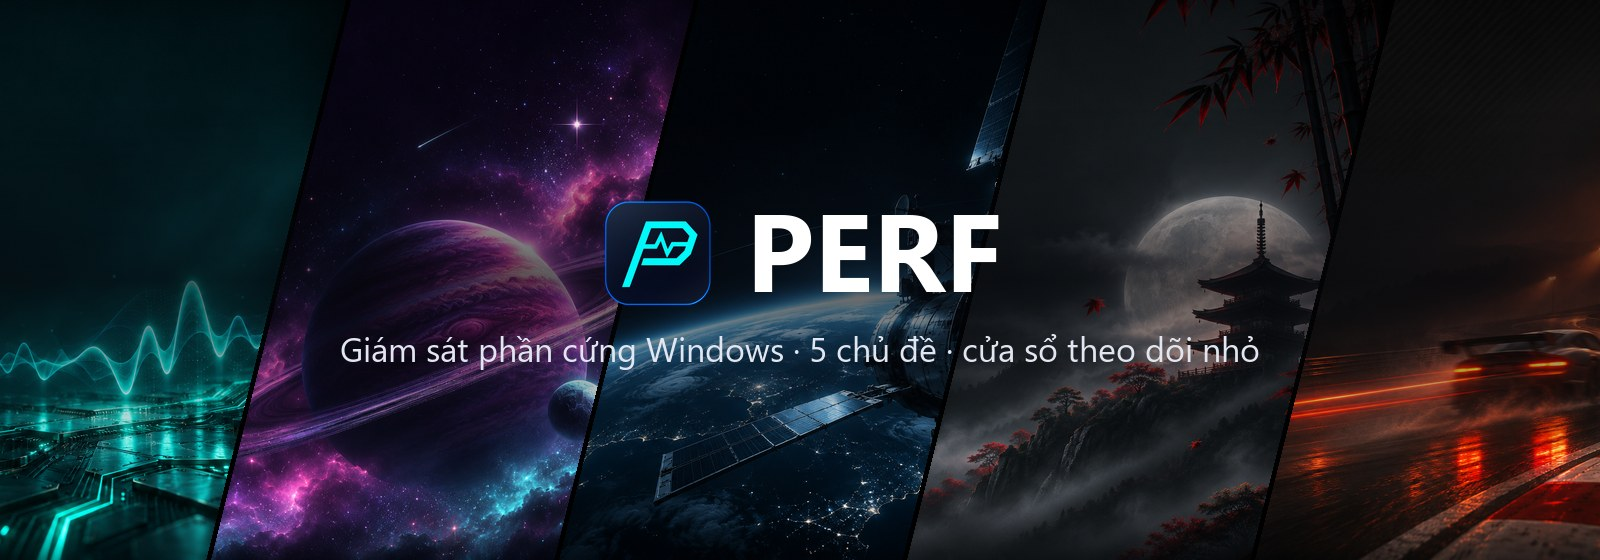
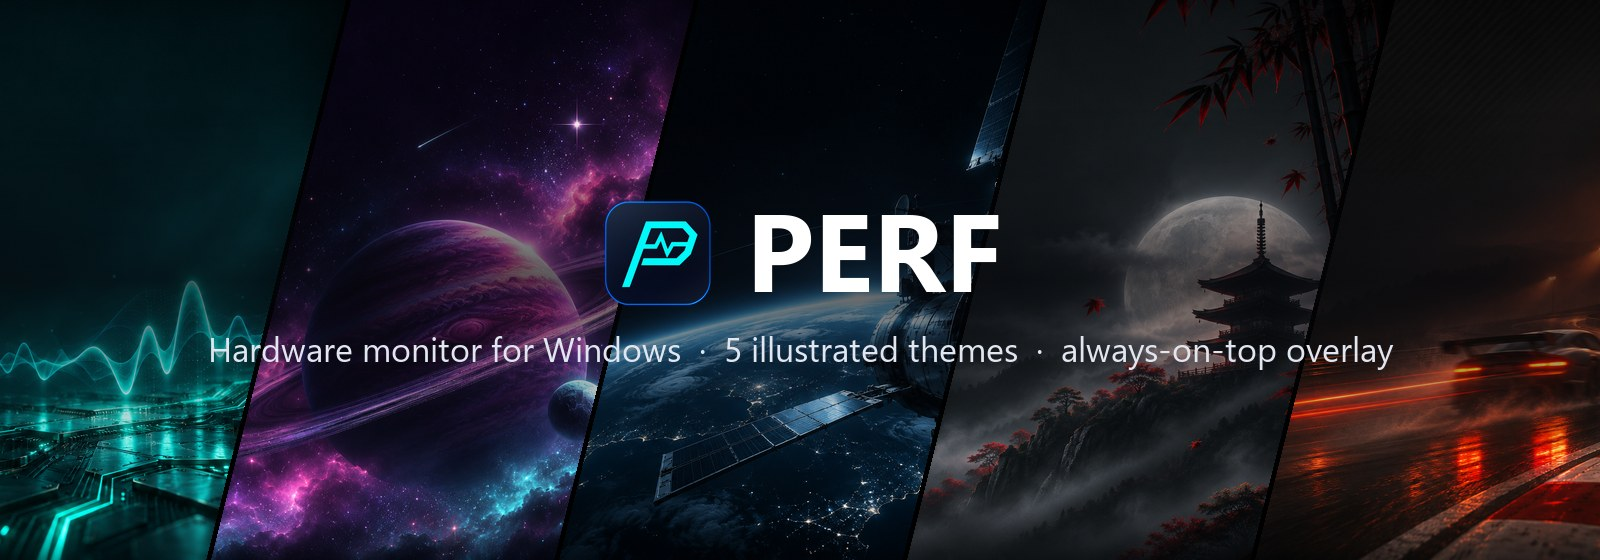
English README

Changed region(s): [[0.125, 0.6071, 0.875, 0.6679]]

diff --git a/README.md b/README.md
@@ -1,148 +1,151 @@
 # PERF 0.3.2
 
 <p align="center">
-  <img src="docs/images/hero.jpg" alt="PERF với năm chủ đề PERF Classic, Vũ trụ, Phi hành gia, Nhẫn giả và Xe đua" width="100%">
+  <img src="docs/images/hero.jpg" alt="PERF with its five themes: PERF Classic, Galaxy, Astronaut, Ninja and Racing" width="100%">
 </p>
 
 <p align="center">
-  <b>Theo dõi CPU, GPU, RAM, ổ đĩa, quạt, pin và mạng trên Windows trong một cửa sổ đẹp, nhẹ và dễ đọc.</b><br>
-  Năm chủ đề minh họa, cửa sổ theo dõi nhỏ luôn nổi, đo nhiệt độ 30 giây và giảm nhiệt CPU tạm thời có tự hoàn tác.
+  <b>A clean, lightweight hardware monitor for Windows.</b><br>
+  CPU, GPU, RAM, storage, fans, battery and network in one window, with five illustrated themes,<br>
+  an always-on-top mini overlay, a 30-second temperature check and a self-reverting CPU cool-down.
 </p>
 
 <p align="center">
-  <a href="https://github.com/tuanphat67/PERF/releases/latest"><img src="https://img.shields.io/github/v/release/tuanphat67/PERF?label=T%E1%BA%A3i%20b%E1%BA%A3n%20m%E1%BB%9Bi%20nh%E1%BA%A5t&style=for-the-badge&color=22c3e6" alt="Tải bản mới nhất"></a>
-  <img src="https://img.shields.io/badge/Windows-10%20%7C%2011%20x64-0b0f14?style=for-the-badge&logo=windows" alt="Windows 10 và 11 x64">
-  <img src="https://img.shields.io/badge/Mi%E1%BB%85n%20ph%C3%AD-gi%E1%BB%AF%20to%C3%A0n%20quy%E1%BB%81n-8a5cf6?style=for-the-badge" alt="Miễn phí, giữ toàn quyền">
+  <a href="https://github.com/tuanphat67/PERF/releases/latest"><img src="https://img.shields.io/github/v/release/tuanphat67/PERF?label=Download&style=for-the-badge&color=22c3e6" alt="Download the latest release"></a>
+  <img src="https://img.shields.io/badge/Windows-10%20%7C%2011%20x64-0b0f14?style=for-the-badge&logo=windows" alt="Windows 10 and 11, x64">
+  <img src="https://img.shields.io/badge/Price-Free-8a5cf6?style=for-the-badge" alt="Free">
 </p>
 
 <p align="center">
-  <a href="https://github.com/tuanphat67/PERF/releases/latest"><b>⬇ Tải PERF cho Windows</b></a>
-  &nbsp;·&nbsp; <a href="#cài-đặt-trong-1-phút">Cài đặt</a>
-  &nbsp;·&nbsp; <a href="#năm-chủ-đề">Chủ đề</a>
-  &nbsp;·&nbsp; <a href="#câu-hỏi-thường-gặp">Hỏi đáp</a>
+  <a href="https://github.com/tuanphat67/PERF/releases/latest"><b>⬇ Download PERF for Windows</b></a>
+  &nbsp;·&nbsp; <a href="#install-in-one-minute">Install</a>
+  &nbsp;·&nbsp; <a href="#five-themes">Themes</a>
+  &nbsp;·&nbsp; <a href="#faq">FAQ</a>
 </p>
+
+> **Interface language:** the app UI is currently in Vietnamese. Menu names below are given in English with the on-screen Vietnamese label in brackets.
 
 ---
 
-## Vì sao chọn PERF
+## Highlights
 
 | | |
 |---|---|
-| 📊 **Mọi chỉ số trên một màn hình** | CPU, GPU, RAM, ổ đĩa, quạt và bơm, pin, mạng, kèm biểu đồ 60 giây và giá trị chi tiết khi rê chuột. |
-| 🪟 **Cửa sổ nhỏ luôn nổi** | Đặt ở góc màn hình, chuột bấm xuyên qua nên không vướng khi chơi game hay làm việc. |
-| 🎨 **Năm chủ đề minh họa** | PERF Classic, Vũ trụ, Phi hành gia, Nhẫn giả và Xe đua, mỗi chủ đề có ảnh nền, biểu tượng và bảng màu riêng. |
-| 🌡 **Đo và giảm nhiệt** | Đo nhiệt độ trong 30 giây khi bạn chạy tác vụ thật. Giới hạn CPU 60, 75 hoặc 90% trong 10 phút, tự trả về như cũ. |
-| 🔒 **Trung thực và an toàn** | Không đoán số: cảm biến nào không có thì hiện *Chưa đọc được*. PERF không gửi dữ liệu đi đâu và không điều khiển quạt. |
-| 🪶 **Nhẹ** | Dưới 1% CPU khi chạy nền trên laptop thử nghiệm. Thu xuống khay hệ thống khi không cần. |
+| 📊 **Everything at a glance** | CPU, GPU, RAM, storage, fans and pumps, battery and network on one dashboard, with a 60-second chart and per-moment values on hover. |
+| 🪟 **Always-on-top mini overlay** | Sits in a screen corner and is click-through, so it never gets in the way of games or work. |
+| 🎨 **Five illustrated themes** | PERF Classic, Galaxy, Astronaut, Ninja and Racing, each with its own artwork, icon and colour palette. |
+| 🌡 **Measure and cool down** | Record temperatures for 30 seconds under your real workload. Cap the CPU at 60, 75 or 90% for 10 minutes, then it restores itself. |
+| 🔒 **Honest and safe** | No made-up numbers: sensors that report nothing show *Not available*. PERF sends no data anywhere and never drives your fans. |
+| 🪶 **Lightweight** | Under 1% CPU while running in the background on our test laptop. Minimises to the system tray. |
 
-## Năm chủ đề
+## Five themes
 
-Đổi trong **Cài đặt → Giao diện**, xem trước ngay rồi bấm **Lưu cài đặt**.
+Switch under **Settings → Appearance** (*Cài đặt → Giao diện*), preview instantly, then click **Save settings** (*Lưu cài đặt*).
 
 <p align="center">
-  <img src="docs/images/theme-picker.png" alt="Bộ chọn chủ đề trong Cài đặt" width="820">
+  <img src="docs/images/theme-picker.png" alt="Theme picker in Settings" width="820">
 </p>
 
 <table>
   <tr>
-    <td width="50%"><img src="docs/images/theme-galaxy.jpg" alt="Chủ đề Vũ trụ"><br><b>🪐 Vũ trụ</b>: hành tinh có vành, tinh vân tím hồng và trường sao.</td>
-    <td width="50%"><img src="docs/images/theme-astronaut.jpg" alt="Chủ đề Phi hành gia"><br><b>👨🚀 Phi hành gia</b>: chân trời Trái Đất ban đêm nhìn từ trạm vũ trụ.</td>
+    <td width="50%"><img src="docs/images/theme-galaxy.jpg" alt="Galaxy theme"><br><b>🪐 Galaxy</b> (<i>Vũ trụ</i>): a ringed gas giant, violet nebula and a deep star field.</td>
+    <td width="50%"><img src="docs/images/theme-astronaut.jpg" alt="Astronaut theme"><br><b>👨🚀 Astronaut</b> (<i>Phi hành gia</i>): Earth's night-side horizon seen from a space station.</td>
   </tr>
   <tr>
-    <td><img src="docs/images/theme-ninja.jpg" alt="Chủ đề Nhẫn giả"><br><b>🥷 Nhẫn giả</b>: trăng tròn, chùa cổ trong sương và rặng tre.</td>
-    <td><img src="docs/images/theme-racing.jpg" alt="Chủ đề Xe đua"><br><b>🏎 Xe đua</b>: đường đua đêm mưa với vệt đèn đỏ cam.</td>
+    <td><img src="docs/images/theme-ninja.jpg" alt="Ninja theme"><br><b>🥷 Ninja</b> (<i>Nhẫn giả</i>): a full moon over a misty pagoda and bamboo.</td>
+    <td><img src="docs/images/theme-racing.jpg" alt="Racing theme"><br><b>🏎 Racing</b> (<i>Xe đua</i>): a rain-soaked night circuit streaked with tail lights.</td>
   </tr>
   <tr>
-    <td><img src="docs/images/theme-classic.jpg" alt="Chủ đề PERF Classic"><br><b>📈 PERF Classic</b>: mạch điện và sóng dao động ký cyan.</td>
-    <td align="center"><img src="docs/images/theme-icons.png" alt="Biểu tượng của năm chủ đề" width="90%"><br>Mỗi chủ đề có biểu tượng 3D riêng.</td>
+    <td><img src="docs/images/theme-classic.jpg" alt="PERF Classic theme"><br><b>📈 PERF Classic</b>: glowing circuit traces and a cyan oscilloscope wave.</td>
+    <td align="center"><img src="docs/images/theme-icons.png" alt="The five theme icons" width="90%"><br>Every theme ships with its own 3D icon.</td>
   </tr>
 </table>
 
-> Ảnh chủ đề ở trên dùng dữ liệu mô phỏng để thấy đủ mọi ô. Trên máy thật, số liệu phụ thuộc cảm biến của thiết bị.
+> The theme screenshots use simulated data so every tile is filled. On a real machine, readings depend on the sensors your hardware exposes.
 
-## Cửa sổ theo dõi nhỏ
+## Mini overlay
 
-Luôn nổi ở góc màn hình, mặc định hiện CPU, GPU, RAM và nhiệt độ nếu đọc được. Chọn kiểu **theo dòng**, **dải ngang** hoặc **thanh tải**, đổi vị trí, kích thước, độ đậm nền và từ một đến ba chỉ số trong **Cài đặt → Cửa sổ theo dõi nhỏ**. Nút **Dùng mẫu cửa sổ nhỏ của chủ đề** điền sẵn một cấu hình hợp với chủ đề đang chọn.
+A small always-on-top window in the corner of your screen. By default it shows CPU, GPU and RAM usage plus temperatures when available. Choose a **list**, **strip** or **load bar** layout and adjust position, size, background opacity and one to three metrics under **Settings → Mini overlay** (*Cửa sổ theo dõi nhỏ*). **Use theme overlay preset** (*Dùng mẫu cửa sổ nhỏ của chủ đề*) fills in a layout that matches the current theme.
 
 <p align="center">
-  <img src="docs/images/overlays.png" alt="Ba kiểu cửa sổ nhỏ theo năm chủ đề" width="100%">
+  <img src="docs/images/overlays.png" alt="The three overlay layouts in all five themes" width="100%">
 </p>
 
-## Đo và giảm nhiệt
+## Temperature check and CPU cool-down
 
-<img src="docs/images/cooling.png" alt="Bảng giảm nhiệt CPU tạm thời" width="360" align="right">
+<img src="docs/images/cooling.png" alt="Temporary CPU cool-down panel" width="360" align="right">
 
-- **Kiểm tra nhiệt độ:** bấm đo trong lúc chạy game hay tác vụ nặng. PERF ghi nhiệt độ ban đầu, hiện tại và cao nhất trong 30 giây. App không tự tạo tải thử.
-- **Giảm nhiệt CPU tạm thời:** chọn mức xử lý tối đa **60%, 75% hoặc 90%** trong 10 phút, áp dụng cả khi cắm sạc lẫn dùng pin.
-- **Luôn trả về như cũ:** PERF chỉnh một bản sao của cấu hình nguồn và tự hoàn tác khi hết giờ, khi thoát, kể cả sau khi app bị đóng bất thường hay mất điện. Có nút **Trả về cấu hình nguồn trước đó** để hoàn tác ngay.
-- **Quạt và bơm:** xem vòng tua (RPM) và mức PWM mà máy hỗ trợ ở thẻ **Quạt và bơm**. Quạt vẫn do firmware hoặc phần mềm của hãng điều khiển. Với laptop Lenovo, PERF đọc thêm vòng tua qua Lenovo WMI.
+- **Temperature check:** start a measurement while a game or heavy task is running. PERF records the starting, current and peak temperature over 30 seconds. It never generates load on its own.
+- **Temporary CPU cool-down:** cap the maximum processor state at **60%, 75% or 90%** for 10 minutes, on both AC and battery power.
+- **Always reverted:** PERF edits a copy of your power plan and restores the original when time runs out or when you quit, even after a crash or power loss. **Restore previous power plan** (*Trả về cấu hình nguồn trước đó*) undoes it immediately.
+- **Fans and pumps:** the **Fans and pumps** (*Quạt và bơm*) card shows every RPM and PWM channel your machine reports. Fans stay under firmware or vendor-software control. On Lenovo laptops, PERF also reads fan speed through Lenovo WMI.
 
 <br clear="right">
 
-## Cài đặt trong 1 phút
+## Install in one minute
 
-1. Tải `PERF-<phiên-bản>-x64.msi` ở trang [**Releases**](https://github.com/tuanphat67/PERF/releases/latest).
-2. Mở tệp MSI và làm theo hướng dẫn. Bộ cài đã có sẵn .NET, không cần cài thêm gì.
-3. Mở **PERF** từ Start. Cửa sổ chính và cửa sổ nhỏ hiện ra ngay.
+1. Download `PERF-<version>-x64.msi` from [**Releases**](https://github.com/tuanphat67/PERF/releases/latest).
+2. Run the installer. The .NET runtime is bundled, so nothing else is needed.
+3. Launch **PERF** from the Start menu. The main window and the mini overlay appear right away.
 
-**Cảm biến nâng cao (khuyên dùng):** bộ cài kèm driver **PawnIO** có chữ ký để đọc thêm nhiệt độ và công suất CPU. Chấp nhận hộp thoại UAC khi được hỏi. Nếu đã bỏ qua, vào **Cài đặt → Nguồn cảm biến** và bấm **Cài PawnIO đi kèm**, sau đó thoát hẳn PERF rồi mở lại.
+**Advanced sensors (recommended):** the installer includes the signed **PawnIO** driver, which unlocks extra CPU temperature and power readings. Accept the UAC prompt when asked. If you skipped it, open **Settings → Sensor sources** (*Cài đặt → Nguồn cảm biến*), click **Install bundled PawnIO** (*Cài PawnIO đi kèm*), then quit and reopen PERF.
 
-**Nâng cấp:** thoát PERF (chuột phải biểu tượng ở khay → **Thoát**) rồi chạy MSI mới. Cài đặt cá nhân được giữ nguyên.
+**Upgrade:** quit PERF (right-click the tray icon → **Exit** / *Thoát*) and run the new installer. Your settings are kept.
 
-**Gỡ cài đặt:** thoát PERF, rồi gỡ trong **Settings → Apps → Installed apps**.
+**Uninstall:** quit PERF, then remove it from **Settings → Apps → Installed apps** in Windows.
 
-### Yêu cầu
+### Requirements
 
-- Windows 10 hoặc 11, 64-bit (x64).
-- Laptop hoặc PC bàn. Số liệu từng cảm biến phụ thuộc phần cứng và driver của máy.
+- Windows 10 or 11, 64-bit (x64).
+- Laptop or desktop. Available readings depend on your hardware and drivers.
 
-## Mẹo sử dụng
+## Tips
 
-- Bấm **X** để thu PERF xuống khay hệ thống. Cửa sổ nhỏ vẫn cập nhật. Bấm đúp biểu tượng ở khay để mở lại.
-- Bấm vào thẻ **Quạt và bơm** để xem mọi kênh RPM và PWM, bấm **Đặt lại min/max** để đo lại từ đầu.
-- Trên biểu đồ 60 giây, chọn chỉ số bên dưới và rê chuột để xem giá trị từng thời điểm.
-- **Cài đặt → Khôi phục mặc định** đưa mọi tùy chọn về ban đầu và trả cấu hình nguồn về như trước.
+- Click **X** to send PERF to the system tray; the overlay keeps updating. Double-click the tray icon to bring it back.
+- Click the **Fans and pumps** card to see every RPM and PWM channel; **Reset min/max** (*Đặt lại min/max*) starts the session statistics over.
+- On the 60-second chart, pick a metric below it and hover to read any moment.
+- **Settings → Restore defaults** (*Khôi phục mặc định*) resets every option and returns your power plan to how it was.
 
-## Câu hỏi thường gặp
+## FAQ
 
 <details>
-<summary><b>Vì sao nhiệt độ GPU hiện "– °C"?</b></summary>
+<summary><b>Why does GPU temperature show "– °C"?</b></summary>
 
-Thường là máy chỉ có GPU tích hợp (ví dụ Intel UHD Graphics). GPU này nằm chung chip với CPU và không có cảm biến nhiệt riêng, nên PERF để trống thay vì đoán số. Trên máy có GPU rời NVIDIA hoặc AMD, nhiệt độ GPU hiện bình thường.
+Usually because the machine only has integrated graphics (for example Intel UHD Graphics). The iGPU shares the CPU die and has no temperature sensor of its own, so PERF leaves it blank instead of guessing. Discrete NVIDIA and AMD GPUs report their temperature normally.
 </details>
 
 <details>
-<summary><b>Vì sao một số ô hiện "Chưa đọc được"?</b></summary>
+<summary><b>Why do some tiles say "Not available" (<i>Chưa đọc được</i>)?</b></summary>
 
-Driver hoặc firmware của máy không cung cấp số đo đó. Cài **PawnIO** và cho phép chế độ nâng cao để đọc thêm nhiệt độ và công suất CPU. Một số số đo GPU, SSD và quạt vẫn tùy thiết bị.
+Your drivers or firmware don't expose that reading. Installing **PawnIO** and allowing advanced mode unlocks more CPU temperature and power sensors. Some GPU, SSD and fan readings still depend on the device.
 </details>
 
 <details>
-<summary><b>PERF có điều khiển quạt hay ép xung không?</b></summary>
+<summary><b>Does PERF control fans or overclock?</b></summary>
 
-Không. PERF chỉ đọc cảm biến. Tính năng giảm nhiệt chỉ giới hạn tạm thời mức xử lý tối đa của CPU qua cấu hình nguồn Windows và luôn tự hoàn tác.
+No. PERF only reads sensors. The cool-down feature temporarily lowers the maximum processor state through the Windows power plan and always reverts it.
 </details>
 
 <details>
-<summary><b>PERF có thu thập dữ liệu của tôi không?</b></summary>
+<summary><b>Does PERF collect my data?</b></summary>
 
-Không. PERF không gửi dữ liệu ra ngoài. Cài đặt lưu cục bộ trong `%LocalAppData%\PERF`.
+No. PERF sends nothing over the network. Settings are stored locally in `%LocalAppData%\PERF`.
 </details>
 
 <details>
-<summary><b>Windows SmartScreen cảnh báo khi mở bộ cài?</b></summary>
+<summary><b>Windows SmartScreen warns about the installer</b></summary>
 
-Bộ cài PERF chưa ký số nên Windows có thể cảnh báo. Chỉ tải PERF từ trang Releases chính thức của dự án. Nếu yên tâm, chọn **More info → Run anyway**.
+The PERF installer is not code-signed yet, so Windows may show a warning. Only download PERF from the official Releases page. If you trust the file, choose **More info → Run anyway**.
 </details>
 
 <details>
-<summary><b>Phiên giảm nhiệt bị kẹt sau khi máy tắt đột ngột?</b></summary>
+<summary><b>A cool-down session seems stuck after a sudden shutdown</b></summary>
 
-Mở lại PERF hoặc đăng nhập lại Windows để cơ chế khôi phục tự chạy. Nếu vẫn chưa được, mở `%LocalAppData%\PERF\cooling.json`, lấy mã ở trường `Original` rồi chạy `powercfg /setactive <mã>` trong PowerShell, hoặc chọn lại cấu hình nguồn trong Power Options.
+Open PERF or sign in to Windows again and the recovery runs automatically. If it still isn't restored, open `%LocalAppData%\PERF\cooling.json`, copy the value of `Original`, and run `powercfg /setactive <value>` in PowerShell, or pick your previous plan in Power Options.
 </details>
 
-## Giấy phép
+## License
 
-PERF là **phần mềm miễn phí, tác giả giữ toàn quyền**. Bạn được tải bộ cài chính thức từ Releases và dùng miễn phí. Không được sao chép, sửa đổi, phân phối lại hay bán PERF, mã nguồn, hình ảnh hoặc biểu tượng khi chưa có sự đồng ý bằng văn bản của tác giả. Chi tiết trong [LICENSE](LICENSE).
+PERF is **free software with all rights reserved** by its author. You may download the official installer from Releases and use it free of charge. Copying, modifying, redistributing or selling PERF, its code, artwork or icons is not permitted without the author's written permission. See [LICENSE](LICENSE).
 
-PERF dùng một số thành phần bên thứ ba, mỗi thành phần giữ giấy phép riêng: LibreHardwareMonitorLib (MPL-2.0), HidSharp, .NET runtime và bộ cài PawnIO. Xem [THIRD-PARTY.txt](THIRD-PARTY.txt).
+PERF bundles third-party components that keep their own licenses: LibreHardwareMonitorLib (MPL-2.0), HidSharp, the .NET runtime and the PawnIO installer. See [THIRD-PARTY.txt](THIRD-PARTY.txt).
